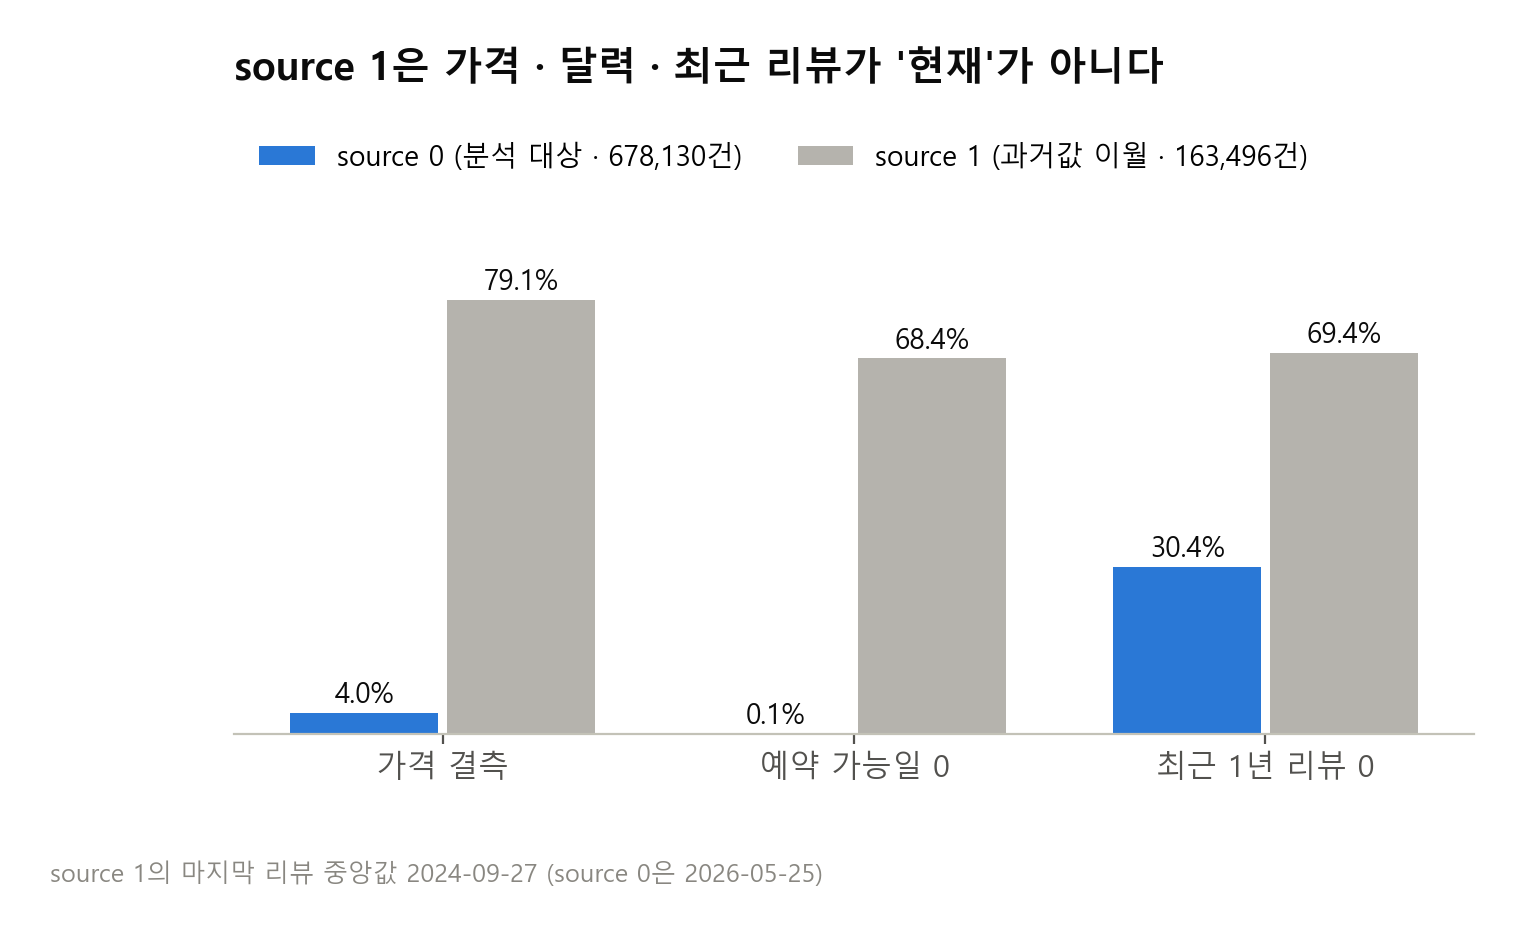
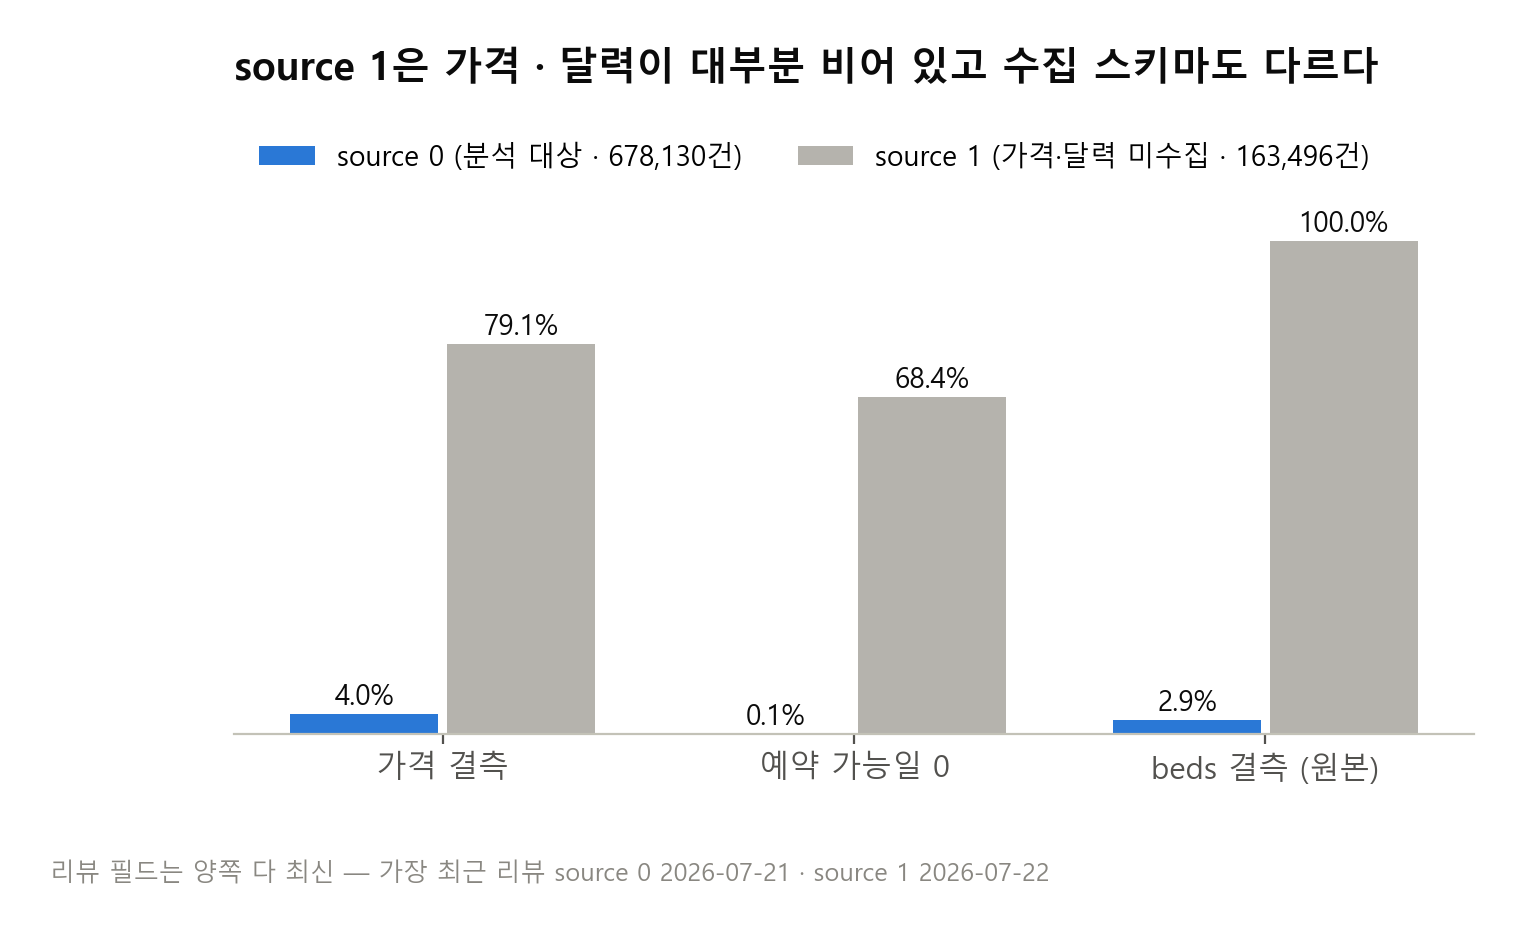
Reframe source 1 as missing price and calendar, not carried-over values
The review fields in source 1 are current (latest review 2026-07-22, and
ltm agrees with last_review against today), so the 20-month-old median
review date showed dormant listings, not stale values. Drop that argument
from the 2-2 slides and figure 01, soften the absolute claims, and fix the
counter-arguments that still assumed carry-over.

diff --git a/presentation/make_figures.py b/presentation/make_figures.py
@@ -65,18 +65,18 @@ u = s[s["stay"] != "장기"].copy()
 metrics = {
     "가격 결측": lambda g: g["price"].isna().mean(),
     "예약 가능일 0": lambda g: (g["availability_365"] == 0).mean(),
-    "최근 1년 리뷰 0": lambda g: (g["number_of_reviews_ltm"] == 0).mean(),
+    "beds 결측 (원본)": lambda g: (g["beds_impute"] != "observed").mean(),
 }
 vals = {src: [f(d[d.source == src]) * 100 for f in metrics.values()] for src in [0, 1]}
 fig, ax = plt.subplots(figsize=(8, 4))
 x = np.arange(len(metrics)); w = 0.36
 b0 = ax.bar(x - w / 2 - 0.01, vals[0], w, color=BLUE, label=f"source 0 (분석 대상 · {(d.source == 0).sum():,}건)")
-b1 = ax.bar(x + w / 2 + 0.01, vals[1], w, color=GRAY, label=f"source 1 (과거값 이월 · {(d.source == 1).sum():,}건)")
+b1 = ax.bar(x + w / 2 + 0.01, vals[1], w, color=GRAY, label=f"source 1 (가격·달력 미수집 · {(d.source == 1).sum():,}건)")
 bar_labels(ax, b0, lambda v: f"{v:.1f}%"); bar_labels(ax, b1, lambda v: f"{v:.1f}%")
-ax.set_xticks(x, list(metrics)); ax.set_ylim(0, 112); ax.set_yticks([])
+ax.set_xticks(x, list(metrics)); ax.set_ylim(0, 125); ax.set_yticks([])
 ax.legend(frameon=False, loc="upper left", fontsize=10, ncol=2)
-ax.set_title("source 1은 가격 · 달력 · 최근 리뷰가 '현재'가 아니다", loc="left")
-save(fig, "01_source_compare.png", "source 1의 마지막 리뷰 중앙값 2024-09-27 (source 0은 2026-05-25)")
+ax.set_title("source 1은 가격 · 달력이 대부분 비어 있고 수집 스키마도 다르다", loc="left")
+save(fig, "01_source_compare.png", f"리뷰 필드는 양쪽 다 최신 — 가장 최근 리뷰 source 0 {pd.to_datetime(d.loc[d.source == 0, 'last_review']).max():%Y-%m-%d} · source 1 {pd.to_datetime(d.loc[d.source == 1, 'last_review']).max():%Y-%m-%d}")
 
 # ── 02. 도시 규모 vs 숙소당 수익 ────────────────────────────────────
 sp = s[s["has_price"]].assign(rev=lambda t: t["price"] * t["occ_review"] * 365)

diff --git a/presentation/DRAFT.md b/presentation/DRAFT.md
@@ -209,22 +209,25 @@
 
 <aside>
 
-### ① `source == 1`은 과거 값이 이월된 행
+### ① `source == 1`은 가격·달력이 대부분 비어 있는 행
 
 ![source 비교](figures/01_source_compare.png)
 
-| | `source == 0` | `source == 1` | 이월로 설명하면 |
+| | `source == 0` | `source == 1` | 의미 |
 | --- | ---: | ---: | --- |
 | 행 수 | 678,130 (80.6%) | 163,496 (19.4%) | |
-| `price` 결측 | 4.0% | **79.1%** | 가격은 실시간 견적이라 이월 불가 |
-| `beds` · `bathrooms` 결측 (원본) | 2.9% · 7.0% | **100% · 100%** | 과거 스냅샷에 필드 자체가 없음 |
-| 예약 가능일 0 | 0.07% | **68.4%** | 달력을 못 가져와 0으로 채워짐 |
-| 마지막 리뷰 중앙값 | 2026-05-25 | **2024-09-27** | 값의 시점이 약 20개월 전 |
+| `price` 결측 | 4.0% | **79.1%** | 가격 견적을 대부분 못 가져옴 |
+| 예약 가능일 0 | 0.07% | **68.4%** | 달력도 대부분 비어 있음 (가격 O · 달력 0인 행 1건 → 둘이 함께 비어 있음) |
+| `beds` · `bathrooms` 결측 (원본) | 2.9% · 7.0% | **100% · 100%** | 수집 스키마가 다름: 필드 자체가 없음 |
+| 가장 최근 리뷰 | 2026-07-21 | 2026-07-22 | 리뷰 필드는 양쪽 다 최신 → 수집 시점 문제는 아님 |
+| 최근 1년 리뷰 0 | 30.4% | **69.4%** | 활동이 끊긴 매물이 많음 |
+
+→ 현재 가격·달력을 진단할 수 없으므로 "현재를 묻는" 분석에서 제외
 </aside>
 
 <aside>
 
-### ② 같은 호스트로 비교하면 결정적
+### ② 같은 호스트로 비교해도 source 1만 비어 있다
 
 양쪽에 모두 매물이 있는 **호스트 15,871명**의 매물만 비교
 
@@ -233,8 +236,9 @@
 | 예약 가능일 0 | **0.1%** | **50.4%** |
 | 가격 결측 | 9.9% | 66.7% |
 | 누적 리뷰 0건 | 22.4% | 25.1% |
+| 최근 1년 리뷰 0 | 33.6% | 53.7% |
 
-→ 같은 사람이 운영하는데 달력만 50%p 차이 = **운영 차이가 아니라 정보 부재**
+→ 같은 사람이 운영하는데 가격·달력이 50%p 이상 차이 = **호스트 특성으로는 설명 안 됨**
 </aside>
 
 <aside>
@@ -243,18 +247,20 @@
 
 **ⅰ. 같은 0이 정반대 의미**
 
-- `source == 0`의 예약 가능일 0은 452건뿐이고 66%가 최근 리뷰 보유 = **꽉 차서 0**
-- `source == 1`의 0 = **못 가져와서 0** (예약 가능일 0의 99.6%가 `source == 1`)
+- `source == 0`의 예약 가능일 0은 452건뿐이고 66%가 최근 리뷰 보유 = **대부분 거래 중인 매물의 0**
+- `source == 1`의 0은 111,763건이고 전부 가격도 결측 = **상태를 알 수 없는 0** (예약 가능일 0의 99.6%가 `source == 1`)
 
 **ⅱ. 도시 비교 왜곡**
 
 - `source == 1` 비중: 아테네 0% ~ 베를린 48%
-- 섞으면 "베를린은 안 팔린다"가 **갱신 실패율 차이**로 만들어짐
+- 섞으면 "베를린은 안 팔린다"가 **source 1 비중 차이**로 만들어짐
+    - 베를린 최근 1년 리뷰 0: 섞으면 **45.5%**, `source == 0`만 보면 **14.6%** (아테네는 둘 다 25.1%)
 
 - 예상 반론
-    - **19.4%를 버리면 편향 아닌가?** → "현재를 묻는 질문"에서만 뺌. `source == 0`만으로도 53개 지역이 모두 남음
-    - **이탈한 매물이면 그 자체가 문제 아닌가?** → 그럴 수 있지만 가격 · 달력 · 최근 리뷰가 없어 원인을 진단할 수 없음
-    - **수집 채널 차이 아닌가?** → 같은 호스트 안에서도 달력이 50%p 다르고 필드 자체가 없음
+    - **19.4%를 버리면 편향 아닌가?** → "현재를 묻는 질문"에서만 뺌. `source == 0`만으로도 53개 지역이 모두 남음. 단 베를린처럼 매물이 절반 가까이 빠지는 지역도 있음
+    - 이후 무거래율(30.4%)은 가격·달력이 보이는 매물 기준이라 **보수적인 값** (`source == 1`은 최근 1년 리뷰 0이 69.4%)
+    - **이탈한 매물이면 그 자체가 문제 아닌가?** → 그럴 수 있지만 가격 · 달력이 없어 원인을 진단할 수 없음
+    - **수집 채널 차이 아닌가?** → 맞음. `beds` · `bathrooms` 필드 자체가 없을 만큼 수집 방식이 달라 가격 · 달력이 비어 있음 → 그래서 뺌
 </aside>
 
 ---
